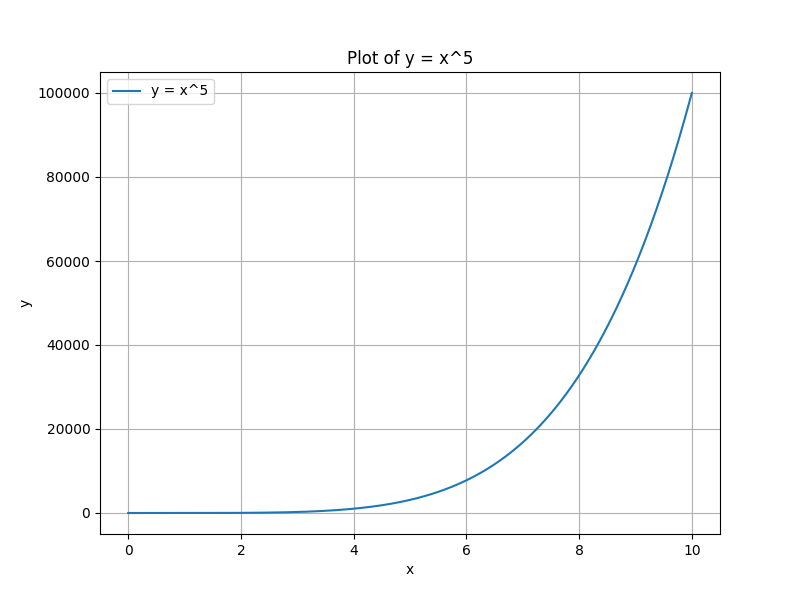
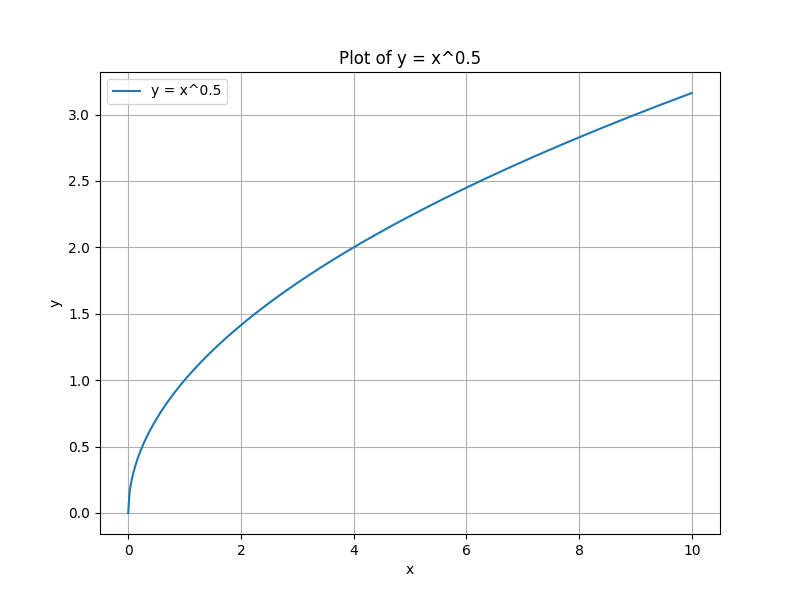
fixed for decimal values of p

diff --git a/btp/polls/views.py b/btp/polls/views.py
@@ -1,6 +1,4 @@
 from django.shortcuts import render
-
-# Create your views here.
 from django.http import HttpResponse
 import matplotlib.pyplot as plt
 import numpy as np
@@ -8,13 +6,11 @@ import numpy as np
 def index(request):
     return HttpResponse("Hello, world. You're at the polls index.")
 
-
-
 def save_plot_power_function(p, image_path):
     x = np.linspace(0, 10, 400)
     y = x ** p
 
-    plt.figure(figsize=(8,6))
+    plt.figure(figsize=(8, 6))
     plt.plot(x, y, label=f'y = x^{p}')
     plt.xlabel('x')
     plt.ylabel('y')
@@ -24,7 +20,6 @@ def save_plot_power_function(p, image_path):
     plt.savefig(image_path)
     plt.close()
 
-
 def plot_view(request):
     image_path = None
 
@@ -32,11 +27,11 @@ def plot_view(request):
         p = request.POST.get('p')
         if p:
             try:
-                p = int(p)
+                p = float(p)  # Convert p to a floating-point number
                 image_path = 'polls/static/plot.png'
                 save_plot_power_function(p, image_path)
             except ValueError:
-                # Handle the error if p is not an integer
+                # Handle the error if p is not a valid floating-point number
                 pass
 
     return render(request, 'polls/plot.html', {'image_path': image_path})
